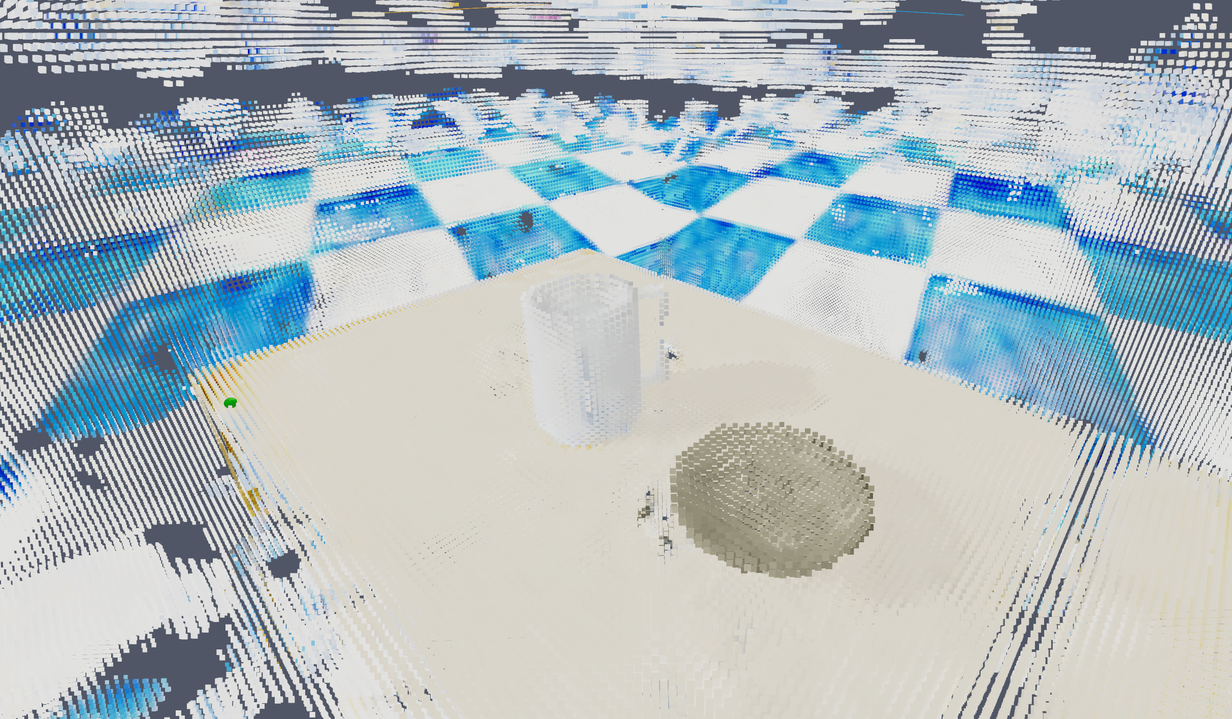
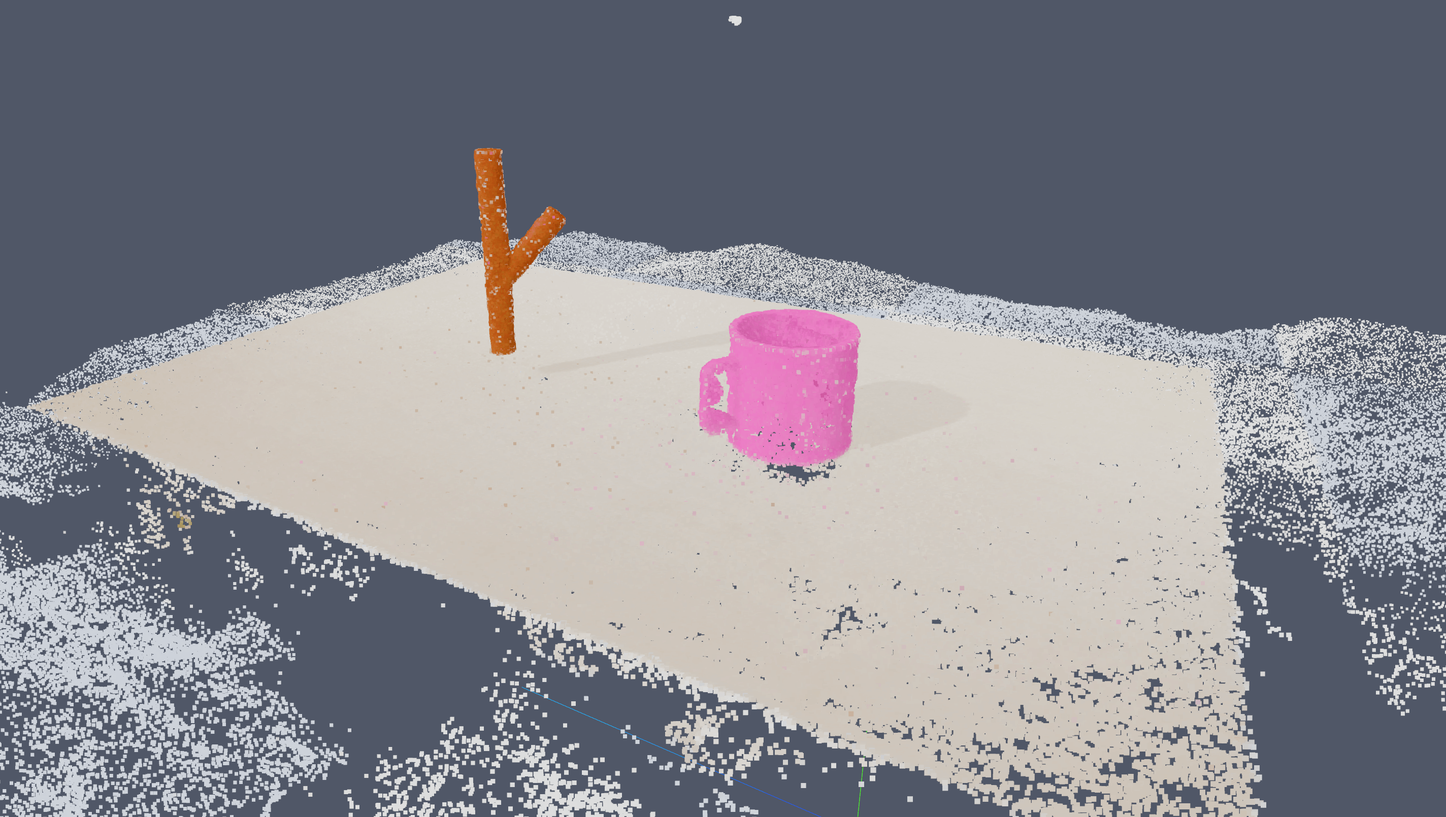
Update README figure

diff --git a/README.md b/README.md
@@ -18,7 +18,7 @@ There may be other hacks you will need to do to get this version of the codebase
 <p align="center">
     <img src="doc/nerf_pcd.png" width="500">
     <br>
-    <i>Point Cloud from a NeRF of a scene in R-NDF.</i>
+    <i>Point Cloud from a NeRF of a scene in R-NDF for "mug on rack".</i>
 </p>
 
 ### Table of Contents
